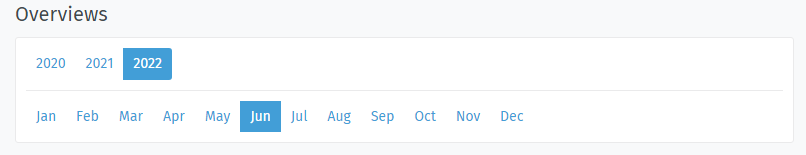
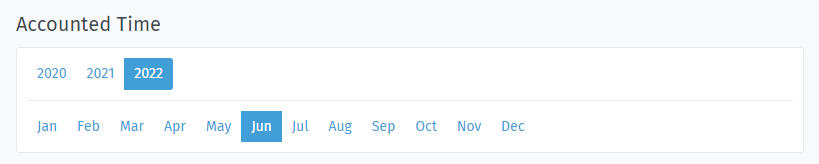
Maintenance: Update section name of time accounting as per zammad/zammad/issues/4119

diff --git a/manage/time-accounting.rst b/manage/time-accounting.rst
@@ -41,9 +41,9 @@ the current ticket step.
 Reviewing accounted time
 ------------------------
 
-Below the selector configuration, Zammad provides "Overviews" which will contain
-all accounted times for your tickets. Accounted times are displayed per years
-and months.
+Below the selector configuration, Zammad provides an accounted time section
+which will contain all accounted times for your tickets.
+Accounted times are displayed per years and months.
 
    .. hint::
 
